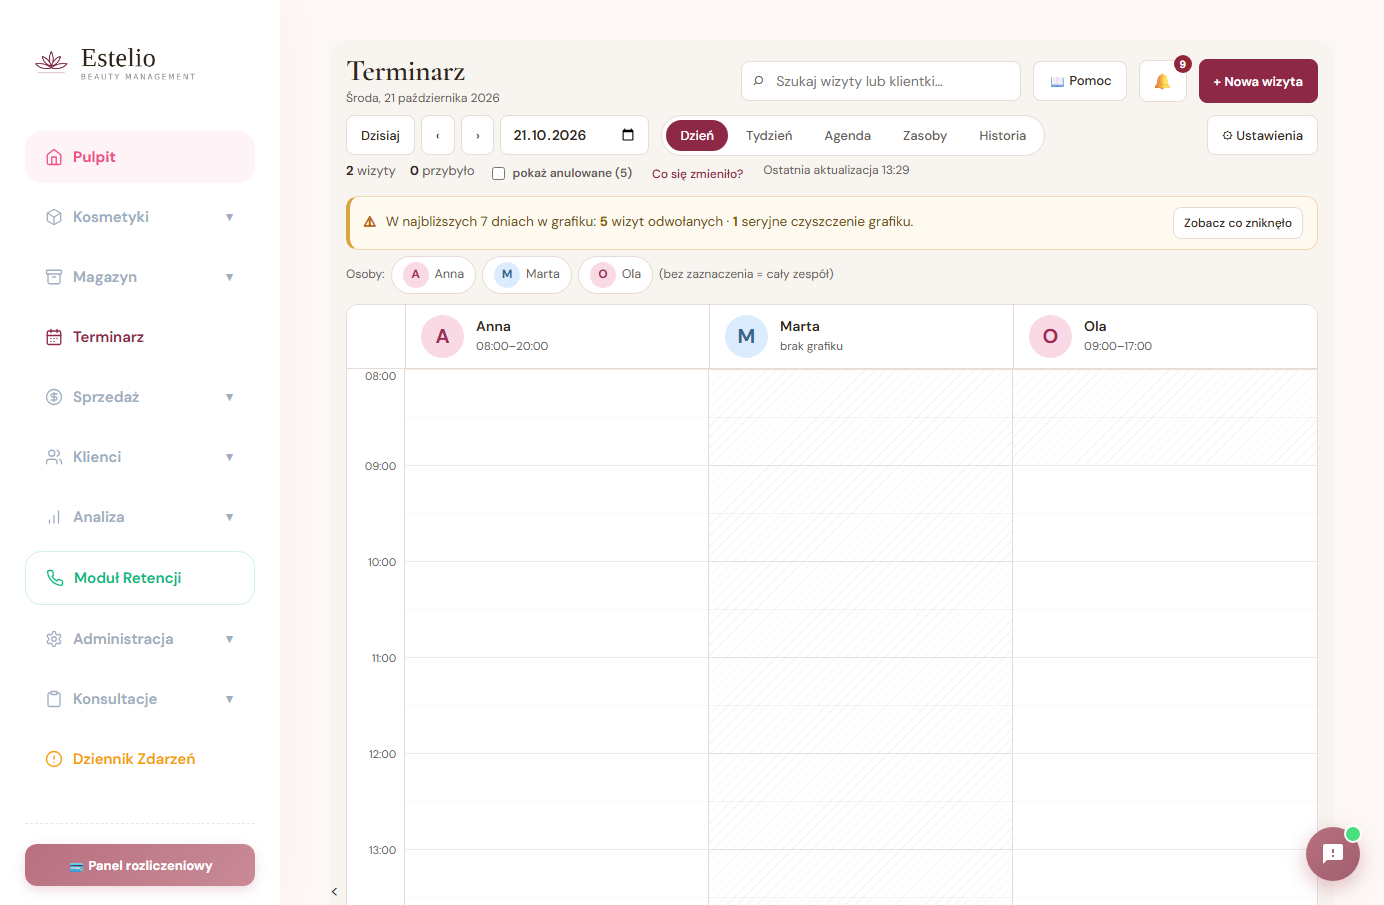
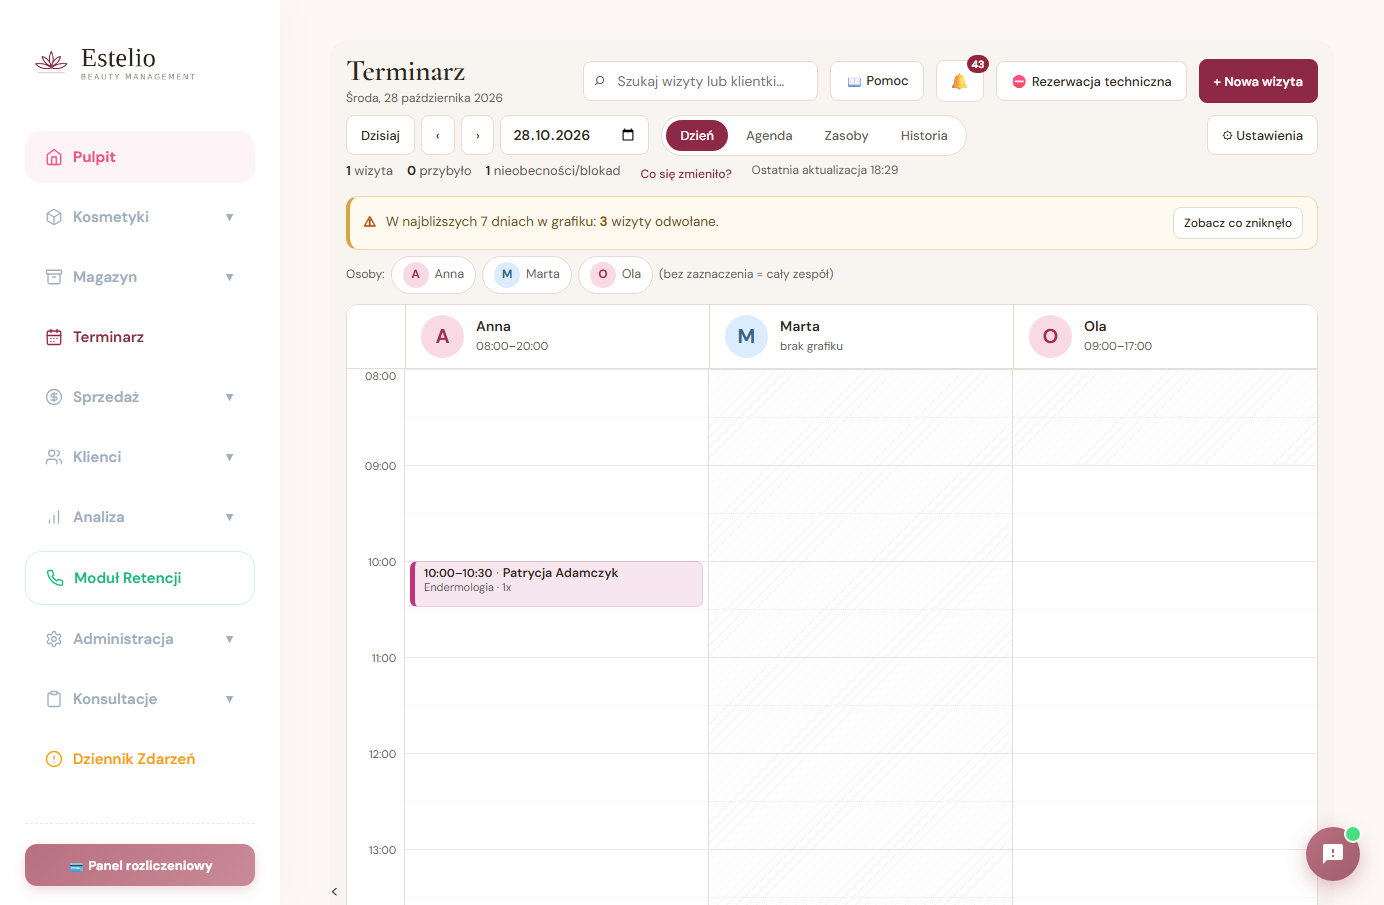
docs(pomoc-terminarz): koniec dublowania treści + trzy zrzuty pokazujące zdjęty przycisk
Zgłoszenie właściciela: „czy informacje się nie dublują?”. Dublowały się w czterech miejscach.

- Rozdział 19 powtarzał w całości zdanie z rozdziału 18 o zakładaniu klientki w module Klienci.
  Zostało jedno, w rozdziale 18; w 19 jest odsyłacz i tylko to, co dotyczy rezerwacji technicznej.
- Blokowanie czasu opisane w 08 i 19 bez rozgraniczenia. Oba rozdziały dostały po jednym zdaniu:
  manager zakłada rzeczy długie i kadrowe w Ustawieniach, recepcja pojedyncze godziny z kalendarza.
- Dwie tabele pilności (29 i 30) mówiły to samo. Pełna skala została w 29; w 30 jest akapit
  wyłącznie o odstępstwie dla zniknętych wizyt (48 godzin zamiast dwóch).
- Zdanie o kolorze kafelka w 16 powtarzało rozdział 17 i po dodaniu 17 było nieścisłe
  (kolor idzie z kategorii cennika, typ wyznacza rodzinę barwy). Teraz odsyłacz.

Zrzuty: trm-26, trm-27, trm-28 odtworzone na izolowanej bazie — stary trm-28 pokazywał przycisk
„Przejmij”, zdjęty z Terminarza 21.10. Sprawa zbiorcza wytworzona realnie (trzy odwołania tego
samego dnia), dane demonstracyjne po próbie usunięte.

Test: nowy przypadek w tests/pomoc-terminarz-struktura.test.js — żadne 12 słów pod rząd nie może
powtórzyć się w dwóch rozdziałach (poza FAQ, słownikiem, indeksem i ściągami). Pełny zestaw 999/999.

diff --git a/public/estelio_pomoc_terminarz.html b/public/estelio_pomoc_terminarz.html
@@ -442,6 +442,7 @@
       </div>
       <div class="kogo"><span><b>Dla kogo:</b> manager</span><span><b>Gdzie:</b> Ustawienia → Nieobecności i blokady</span></div>
       <p class="lead">Blokada wyłącza z dostępności osobę, urządzenie, gabinet albo cały salon w konkretnym przedziale czasu. Typ (urlop, choroba, szkolenie, przerwa, serwis, zamknięte, inne) i opis są wewnętrzne — publicznie zawsze „Niedostępne".</p>
+      <div class="tip"><strong>Tu zakłada manager rzeczy długie i kadrowe:</strong> urlop, chorobę, zamknięcie salonu, wielodniowy serwis. Pojedyncze godziny w biegu — szkolenie o 12:00, rozmowa z kandydatką, serwis na dwie godziny — zakłada recepcja przyciskiem <strong>„⛔ Rezerwacja techniczna"</strong> wprost z kalendarza (<a href="#rezerwacja">Krok 19</a>). To ten sam mechanizm blokady, tylko krótsza droga i bez spraw kadrowych.</div>
 
     <figure class="zrzut">
       <img src="/pomoc-terminarz/trm-08-nieobecnosci.png" alt="Formularz nowej blokady i ostrzezenie, ze blokada dotknie dwoch wizyt">
@@ -741,7 +742,7 @@
     </figure>
 
       <h3>Czytanie karty wizyty</h3>
-      <p>Godzina → klientka → usługa (albo „usługa + usługa") → najwyżej dwa znaczniki. Kolor lewej krawędzi to kategoria zabiegu z Administracji → Typy zabiegów. Znaczniki mówią, co odbiega od normy: „Przybyła", „W trakcie", „Do rozliczenia", „Rozliczona", „Spóźniona", „Nieobecna". Anulowane nie zajmują siatki — przełącznik „pokaż anulowane" przy licznikach przywraca je szare i przekreślone.</p>
+      <p>Godzina → klientka → usługa (albo „usługa + usługa") → najwyżej dwa znaczniki. Kolor kafelka mówi, jaki to zabieg; skąd się bierze i co znaczy legenda pod siatką, wyjaśnia <a href="#kolory">Krok 17</a>. Znaczniki mówią, co odbiega od normy: „Przybyła", „W trakcie", „Do rozliczenia", „Rozliczona", „Spóźniona", „Nieobecna". Anulowane nie zajmują siatki — przełącznik „pokaż anulowane" przy licznikach przywraca je szare i przekreślone.</p>
 
       <h3>Wizyta z notatką widać bez klikania</h3>
       <p>Jeżeli przy wizycie jest notatka, w prawym górnym rogu karty pojawia się <strong>bursztynowy znaczek notatki</strong>. Najedź na niego myszą, a zobaczysz treść bez otwierania wizyty. W widoku Agenda i „Mój dzień" notatka jest wypisana wprost pod nazwą zabiegu — nie trzeba nawet najeżdżać.</p>
@@ -929,6 +930,7 @@
 
       <h3>Cztery powody, bez spraw kadrowych</h3>
       <p>Do wyboru: <strong>Szkolenie · Rozmowa / spotkanie · Serwis, naprawa · Inne</strong>. Urlopu i choroby tu nie ma — to zostaje u managera w <a href="#nieobecnosci">Ustawieniach → Nieobecności i blokady</a>, bo dotyczy zatrudnienia, a nie jednego popołudnia.</p>
+      <div class="tip"><strong>Ta sama blokada, dwie drogi.</strong> Rezerwacja techniczna zapisuje się dokładnie tak samo jak blokada z Ustawień i tak samo znika z dostępności. Różnica jest praktyczna: tutaj robi to recepcja, w kalendarzu, na godziny i najwyżej na 14 dni. Wszystko dłuższe i kadrowe zakłada manager w <a href="#nieobecnosci">Kroku 08</a>.</div>
 
       <h3>Kogo dotyczy</h3>
       <table>
@@ -960,7 +962,7 @@
         <li><strong>Urlopu i choroby stąd nie zmienisz.</strong> Otwierają się tylko do podglądu, z notą, że zakłada je i zdejmuje manager w Ustawieniach.</li>
       </ul>
 
-      <div class="info"><strong>Klientek nie zakłada się już z kalendarza.</strong> Z kreatora wizyty zniknęło „+ Dodaj nową klientkę”: nowy profil powstaje w module <strong>Klienci</strong>, gdzie są zgody, dokumenty i kontrola duplikatów. W kreatorze wyszukujesz istniejącą kartotekę — a jeśli okaże się, że to wcale nie wizyta, jest tam przejście <em>„To nie wizyta — zarezerwuj czas technicznie”</em>, które przenosi godzinę i osobę do tego panelu.</div>
+      <div class="info"><strong>Zacząłeś od kreatora wizyty?</strong> Dopóki nie ma w nim klientki ani zabiegu, jest tam przejście <em>„To nie wizyta — zarezerwuj czas technicznie”</em>, które przenosi godzinę i osobę prosto do tego panelu. O samym kreatorze mówi <a href="#nowa-wizyta">Krok 18</a>.</div>
 
       <div class="scenario">
         <span class="scenario-label">Z życia salonu · czwartek, przedstawiciel o 12:00</span>
@@ -1487,18 +1489,11 @@
 
     <figure class="zrzut">
       <img src="/pomoc-terminarz/trm-28-czyszczenie-grafiku.png" alt="Sprawa Czyszczenie grafiku z lista pieciu odwolanych wizyt jednego dnia">
-      <figcaption>Zbiorcza sprawa nie dotyczy jednej wizyty, tylko całego dnia jednej osoby: kto odwołał, ile wizyt i które. Dalej działa jak każda sprawa — można ją przejąć i rozwiązać.</figcaption>
+      <figcaption>Zbiorcza sprawa nie dotyczy jednej wizyty, tylko całego dnia jednej osoby: kto odwołał, ile wizyt i które, z godzinami i nazwiskami. Dalej działa jak każda sprawa — „Zapisz kontakt”, „Rozwiąż”, „Przekaż”.</figcaption>
     </figure>
 
       <h3>Jak pilne jest odwołanie</h3>
-      <p>Wizyta, która zniknęła, ma własną skalę pilności — liczoną od tego, ile czasu zostało do jej terminu:</p>
-      <table>
-        <tr><th>Do wizyty zostało</th><th>Jak zobaczysz</th><th>Dlaczego tak</th></tr>
-        <tr><td>mniej niż 48 godzin</td><td><span class="pill bad">Pilne teraz</span></td><td>Trzeba zareagować dziś: zadzwonić, przestawić pracę, zagospodarować wolne okno.</td></tr>
-        <tr><td>do 7 dni</td><td><span class="pill warn">Wymaga działania</span></td><td>Trzeba wiedzieć, ale jest czas na spokojną decyzję.</td></tr>
-        <tr><td>dalej niż tydzień</td><td><span class="pill neu">Informacja</span></td><td>Fakt do odnotowania; nie podbija licznika przy dzwonku.</td></tr>
-        <tr><td><strong>termin już minął</strong></td><td><span class="pill warn">Wymaga działania</span></td><td>Zostaje do rozstrzygnięcia (godzina, rozliczenie), ale nie udaje alarmu — na przeszłość i tak nie zdążysz.</td></tr>
-      </table>
+      <p>Skalę priorytetów opisuje <a href="#powiadomienia">Krok 29</a>. Zniknięta wizyta ma w niej jedno odstępstwo: zamiast dwóch godzin liczy się <strong>48 godzin do terminu</strong>, bo odwołanie trzeba zdążyć zagospodarować, a nie tylko odnotować. Dalej jest już tak samo: do siedmiu dni „Wymaga działania”, dalej „Informacja”, a gdy <strong>termin już minął</strong>, sprawa po dobie schodzi do „Wymaga działania”.</p>
       <div class="warning"><strong>Odwołanie wpisane po terminie nie znika, ale też nie krzyczy.</strong> Przez pierwszą dobę po terminie sprawa jest pilna — wtedy jeszcze można zagospodarować godzinę i poprawić rozliczenie. Później schodzi do „Wymaga działania” i zostaje na liście jako rzecz do nadrobienia. Nic nie zamyka się samo.</div>
     </section>
 

diff --git a/tests/pomoc-terminarz-struktura.test.js b/tests/pomoc-terminarz-struktura.test.js
@@ -81,9 +81,31 @@ describe('przewodnik nie opisuje rzeczy, których w Terminarzu już nie ma', () 
         expect(G).not.toContain('wartość wykonanych');
     });
     test('„Dodaj nową klientkę" występuje wyłącznie jako informacja, że tego przycisku już nie ma', () => {
-        const wystapienia = [...G.matchAll(/.{90}Dodaj nową klientkę/g)].map((m) => m[0]);
-        expect(wystapienia.length).toBeGreaterThan(0);
-        expect(wystapienia.every((w) => /zniknęło|nie ma|nie zakłada/i.test(w))).toBe(true);
+        const czesci = G.split('Dodaj nową klientkę');
+        expect(czesci.length).toBeGreaterThan(1);                       // hasło zostaje — po nim ludzie szukają
+        const konteksty = czesci.slice(0, -1).map((c) => c.slice(-120));
+        expect(konteksty.filter((c) => !/zniknęło|nie ma|nie zakłada/i.test(c))).toEqual([]);
+    });
+    test('to samo nie jest tłumaczone dwa razy: żadne zdanie nie powtarza się w dwóch rozdziałach', () => {
+        const sek = [...G.matchAll(/<section class="card" id="([a-z-]+)">([\s\S]*?)<\/section>/g)];
+        const czysty = (s) => s.replace(/<figure[\s\S]*?<\/figure>/g, ' ').replace(/<[^>]*>/g, ' ').replace(/&[a-z]+;/g, ' ').replace(/\s+/g, ' ').trim();
+        const ngramy = (s) => {
+            const w = czysty(s).toLowerCase().replace(/[„”"'’.,;:()—–-]/g, ' ').split(/\s+/).filter(Boolean);
+            const out = new Set();
+            for (let i = 0; i + 12 <= w.length; i++) out.add(w.slice(i, i + 12).join(' '));
+            return out;
+        };
+        // 12 słów pod rząd w dwóch rozdziałach = kopia, nie zbieg okoliczności.
+        // Wyjątki: FAQ i słownik mają z założenia powtarzać to, co stoi w rozdziale źródłowym.
+        const POWTARZALNE = ['faq', 'slownik', 'indeks', 'sciagi'];
+        const g = sek.map((m) => ({ id: m[1], n: ngramy(m[2]) })).filter((x) => !POWTARZALNE.includes(x.id));
+        const kolizje = [];
+        for (let i = 0; i < g.length; i++) {
+            for (let j = i + 1; j < g.length; j++) {
+                for (const frag of g[i].n) if (g[j].n.has(frag)) { kolizje.push(`${g[i].id} ↔ ${g[j].id}: „${frag.slice(0, 70)}…"`); break; }
+            }
+        }
+        expect(kolizje).toEqual([]);
     });
     test('priorytet spraw opisany zgodnie z kodem: po terminie schodzi, a nie zostaje pilny', () => {
         expect(JS.length).toBeGreaterThan(0);
